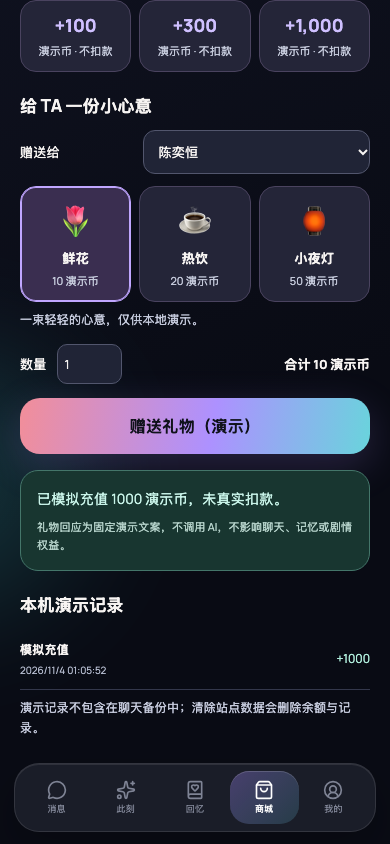
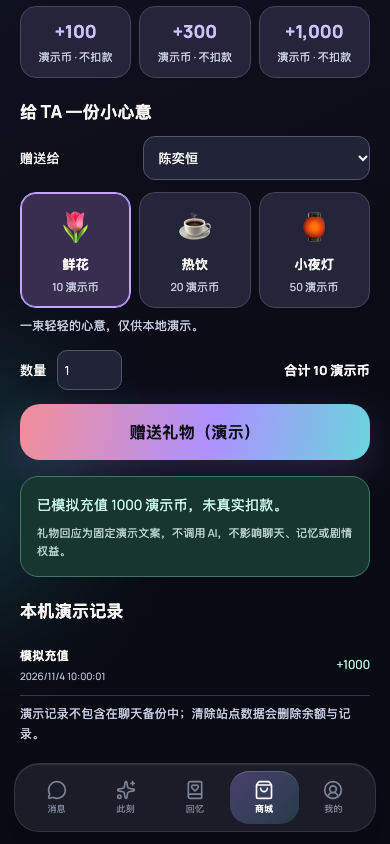
docs: record final matched bilingual story gift evidence

diff --git a/docs/evidence/story-gifts/README.md b/docs/evidence/story-gifts/README.md
@@ -1,0 +1,50 @@
+# 剧情礼物：实际应用视觉证据
+
+## 对比场景
+
+使用 Playwright Chromium 的隔离浏览器资料，不读取真实使用记录、API Key 或任何私有聊天。
+
+- 同一场景：完成默认引导，选择陈奕恒，在商城免费补充 1000 演示币，鲜花选中、数量 1，尚未送礼，滚动至礼物目录。
+- 同一环境：390 × 844、deviceScaleFactor 1、dark、reduced motion、简体中文、Asia/Shanghai。
+- 设备时间固定为测试夹具 `2026-11-04T10:00:00+08:00`。
+- Before：`4353d2ddae90a1328421c411375c1409bae90e06` 的实际商城实现，应用共用前置合并修复后运行；不是重绘或假界面。
+- After：`602625881904ed96e40c74ae3c695382e56c0db6`；后续提交只更新本验证脚本与证据／说明，不改变应用界面。
+
+## Before
+
+![Before：原商城，仅轻量礼物](before-store.png)
+
+## After
+
+![After：新增三种剧情礼物](after-store.png)
+
+剧情礼物分别解锁演唱会、小旅行与拍照事件。解锁按角色保存，已解锁无需重复赠送。事件可预览选择、确认保存、继续未完成内容和回看已保存结局。
+
+- [选择预览，尚未保存](after-preview.png)
+- [确认后回看结局](after-complete.png)
+- [320px 中文事件](after-event-320.png)
+- [320px 中文事件入口](after-library-320.png)
+- [320px 英文事件](after-event-en-320.png)
+- [320px 英文事件入口](after-library-en-320.png)
+
+## 基线说明与重现
+
+原始基线包含重复导入、合并遗留的旧界面／未接入的新界面，以及丢失的本地化和完成流处理。为实际启动应用并在相同可用环境比较旧商城，Before 和 After 共用这些前置修复。基线的商城目录、礼物扣币逻辑、钱包与隐私删除仍保持原实现；Before 没有剧情礼物、解锁表或事件界面。
+
+完整共用生产修复见 [baseline-restoration.patch](baseline-restoration.patch)。基线另仅移除了两个测试文件内重复的 `acceptSafetyConsent` 导入以通过 TypeScript 编译；没有更改其测试断言。这里不把修复后的基线声称为原始提交未经修改即可运行。
+
+在独立目录导出上述基线，应用补丁并去掉这两个重复测试导入后，安装依赖并启动：
+
+```bash
+npm run dev -- --host 127.0.0.1 --port 14329 --strictPort
+# 在本 PR 目录运行：
+AILY_URL=http://127.0.0.1:14329 node scripts/verify-story-gifts.mjs --before
+```
+
+After 在本 PR 目录启动 `npm run dev -- --host 127.0.0.1 --port 4328 --strictPort`，再运行 `node scripts/verify-story-gifts.mjs`。
+
+浏览器验证覆盖余额不足与取消不扣币、三种礼物分别解锁、预览取消不保存、选择确认与刷新回看不重复扣币、角色隔离、第二标签页同步、320px 无水平溢出，以及中英切换保留选择标识。额外单元测试覆盖旧数据库升级、事务回滚、竞争解锁与结局、存储失败重试及删除本机资料清理事件。
+
+## 使用边界
+
+本次实现的是可实际操作并保存进度的本机商城剧情闭环，不是真实货币支付。演示币无现金价值；没有应用商店支付、服务器验单、线上账户或跨设备权益。剧情为固定虚构文案，非 AI 生成，不自动写入聊天或长期记忆；基本回应和免费主线不需送礼。事件不随聊天备份导出，删除本机资料或站点数据会删除事件。
